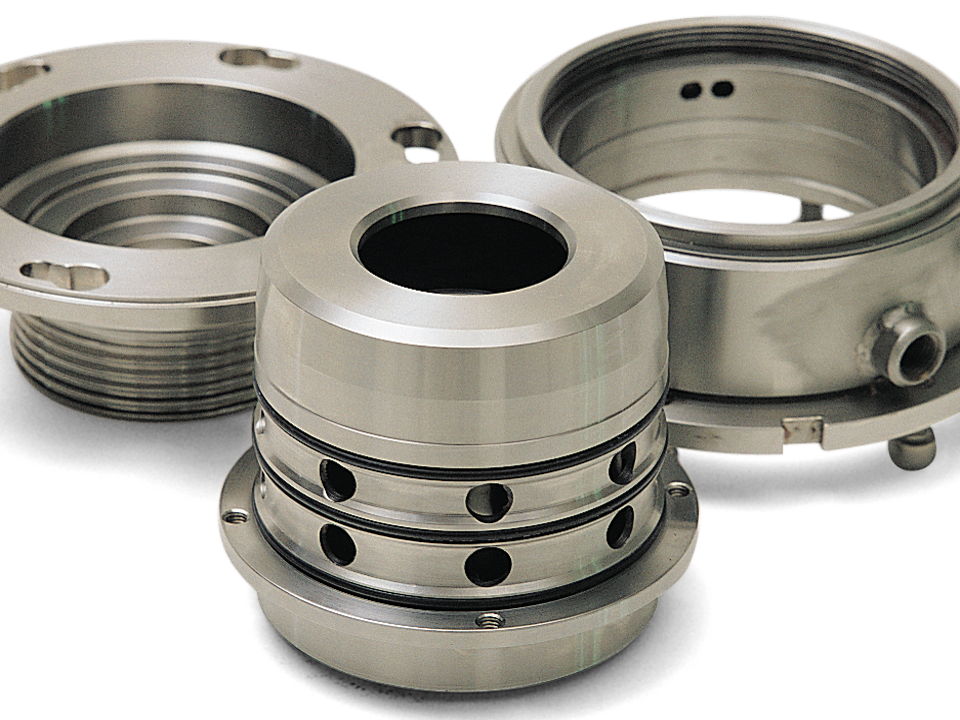
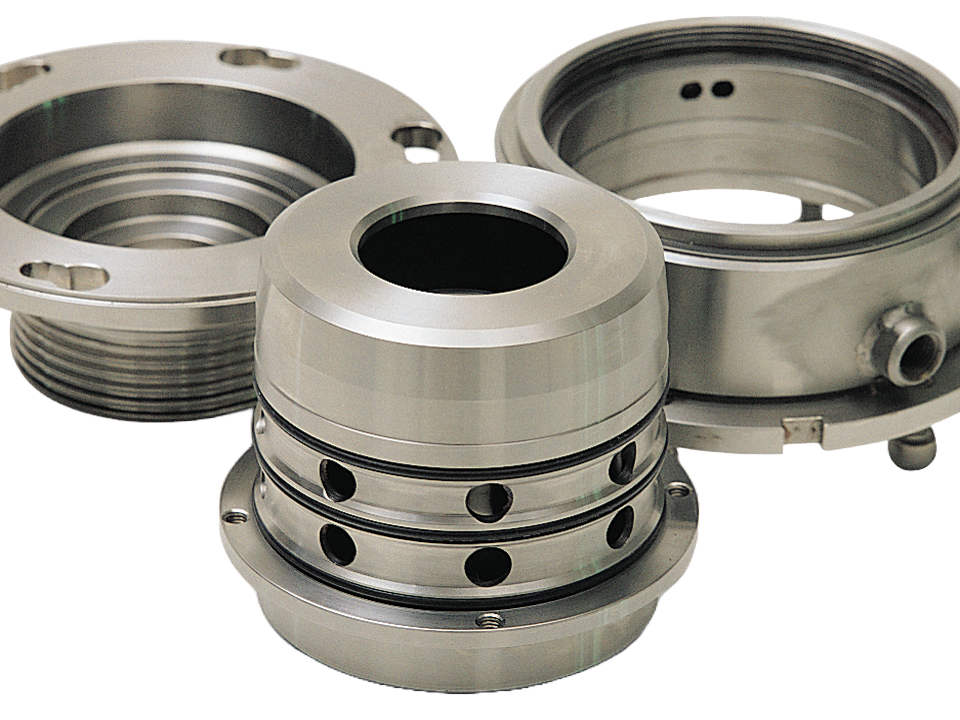
Fix imagenes purificadoras

diff --git a/piezas.html b/piezas.html
@@ -27,9 +27,6 @@
    <link rel="stylesheet" href="https://netdna.bootstrapcdn.com/font-awesome/4.0.3/css/font-awesome.css">
    <link rel="stylesheet" href="https://cdnjs.cloudflare.com/ajax/libs/fancybox/2.1.5/jquery.fancybox.min.css"
       media="screen">
-   <!--[if lt IE 9]>
-      <script src="https://oss.maxcdn.com/html5shiv/3.7.3/html5shiv.min.js"></script>
-      <script src="https://oss.maxcdn.com/respond/1.4.2/respond.min.js"></script><![endif]-->
    <script src="https://cdn.jsdelivr.net/npm/bootstrap@5.2.3/dist/js/bootstrap.bundle.min.js"></script>
 
 </head>
@@ -147,6 +144,19 @@
    <div class="brand_color2">
       <div class="container">
          <div class="row">
+            <h3 style="text-align: justify;">En EPS-Supplier estamos especializados en la provisión de piezas de
+               repuesto y componentes de alta calidad para bombas, purificadoras, motores de generación eléctrica y
+               compresores.</h3>
+            <h3 style="text-align: justify;">Repuestos O.E.M adecuados que han permitido a muchos de nuestros clientes,
+               una alternativa de ahorro al adquirir repuestos con EPS-Supplier sin comprometer la calidad.</h3>
+            <h3 style="text-align: justify;">Todos nuestros repuestos son adquiridos a fabricantes europeos con
+               certificación ISO 9001:2015.</h3>
+            <h3 style="text-align: justify;">Estamos en la capacidad de suministrar piezas de repuesto para maquinas
+               europeas, americanas, japonesas en calidad O.E.M, Originales y Alternativas.
+               <br>
+               <br>
+            </h3>
+
             <div class="col-md-3 bombsBox " href="intercambiadores.html">
                <a href="intercambiadores.html">
                   <h3 class="piezasRep" title="Obtener mas información">INTERCAMBIADORES DE CALOR</h3>

diff --git a/purificadoras.html b/purificadoras.html
@@ -198,7 +198,7 @@
    <!-- ======= Events Section ======= -->
    <section id="events" class="eventsValvulas imagenesProds">
       <div class="container4">
-         <img src="images/purificador1.webp">
+         <img src="images/puri1.png">
          <img src="images/puri2.png">
          <img src="images/puri3.png">
          <img src="images/puri4.png">
